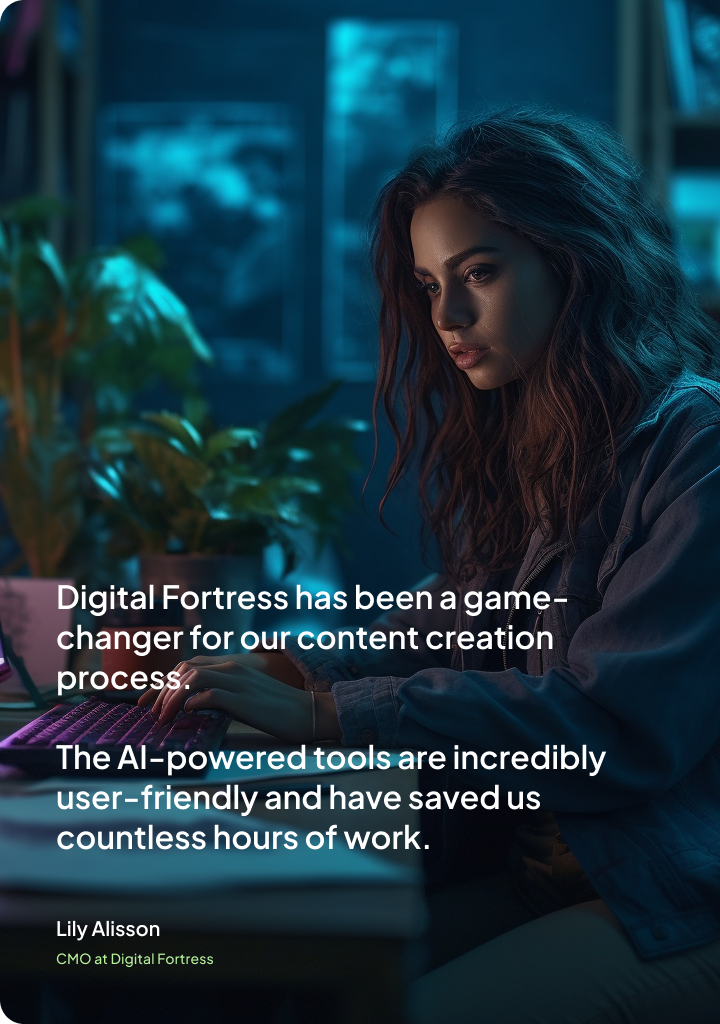
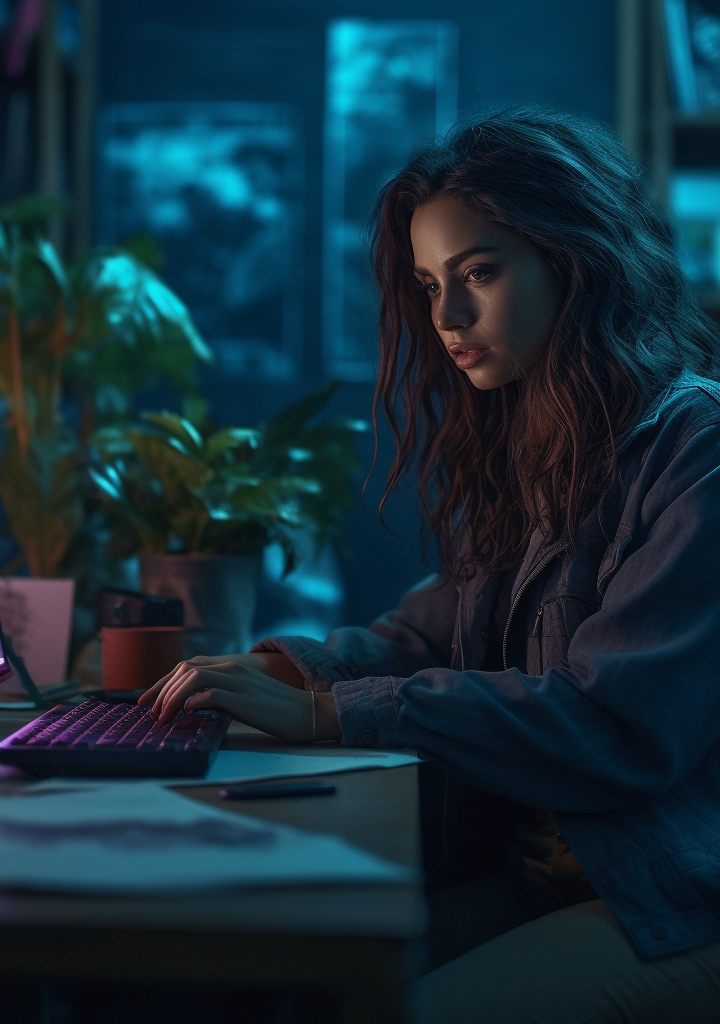
feat: ui table (#5)

diff --git a/src/pages/dashboard/components/table/index.tsx b/src/pages/dashboard/components/table/index.tsx
@@ -1,0 +1,59 @@
+import { Table, TableProps, Tag } from 'antd';
+import React from 'react';
+import { Edit, Remove } from '~/assets';
+import { ActionsStyled } from './styled';
+interface DataType {
+  key: number;
+  projectName: string;
+  lastAssessed: string;
+}
+
+const columns: TableProps<DataType>['columns'] = [
+  {
+    title: 'Project',
+    dataIndex: 'projectName',
+    key: 'projectName',
+  },
+  {
+    title: 'Last assessed',
+    dataIndex: 'lastAssessed',
+    key: 'lastAssessed',
+  },
+  {
+    title: 'License use',
+    dataIndex: 'licenseUse',
+    key: 'licenseUse',
+  },
+  {
+    key: 'actions',
+    dataIndex: 'actions',
+    width: '116px',
+  },
+];
+
+const data = Array.from({ length: 10 }, (_, index) => {
+  return {
+    key: index,
+    projectName: 'Sisyphus',
+    lastAssessed: '22 Jan 2022',
+    licenseUse: (
+      <>
+        <Tag color="success">active</Tag>
+        <Tag color="warning">Customer data</Tag>
+        <Tag color="error">Admin</Tag>
+      </>
+    ),
+    actions: (
+      <ActionsStyled>
+        <img src={Remove} alt="remove" />
+        <img src={Edit} alt="edit" />
+      </ActionsStyled>
+    ),
+  };
+});
+
+const TableDashBoard: React.FC = () => {
+  return <Table pagination={false} rowSelection={{ selectedRowKeys: [1] }} columns={columns} dataSource={data} />;
+};
+
+export default TableDashBoard;

diff --git a/src/pages/auth/signin/index.tsx b/src/pages/auth/signin/index.tsx
@@ -6,18 +6,18 @@ import FieldPassword from '~/components/form/password';
 import LinkPrimary from '~/components/link-primary';
 import {
   ButtonStyled,
+  CMOStyled,
   DescStyled,
   FormActionsStyled,
   FormGroupStyled,
   FormMainStyled,
-  ImgStyled,
   InfoStyled,
   LoginStyled,
   SignUpStyled,
+  SubTitleStyled,
   TitleHeadStyled,
   WrapperStyled,
 } from './styled';
-import { SignInBackground } from '~/assets';
 
 interface IFormData {
   email: string;
@@ -69,7 +69,11 @@ const SignIn = () => {
         </FormMainStyled>
       </LoginStyled>
       <InfoStyled>
-        <ImgStyled src={SignInBackground} alt="" />
+        <h2>Digital Fortress has been a game-changer for our content creation process.</h2>
+        <h2>The AI-powered tools are incredibly user-friendly and have saved us countless hours of work.</h2>
+
+        <SubTitleStyled>Lily Alisson</SubTitleStyled>
+        <CMOStyled>CMO at Digital Fortress</CMOStyled>
       </InfoStyled>
     </WrapperStyled>
   );

diff --git a/src/pages/auth/signin/styled.ts b/src/pages/auth/signin/styled.ts
@@ -1,4 +1,5 @@
 import styled from 'styled-components';
+import { SignInBackground } from '~/assets';
 import Button from '~/components/button/Button';
 
 export const WrapperStyled = styled.div`
@@ -8,7 +9,17 @@ export const WrapperStyled = styled.div`
 `;
 
 export const InfoStyled = styled.div`
-  background: #ccc;
+  background: url(${SignInBackground});
+  padding: 56px;
+  display: flex;
+  flex-direction: column;
+  justify-content: flex-end;
+
+  & > h2 {
+    font-size: 32px;
+    font-weight: 600;
+    margin-bottom: 56px;
+  }
 `;
 
 export const LoginStyled = styled.div`
@@ -65,4 +76,14 @@ export const FormGroupStyled = styled.div`
 export const ImgStyled = styled.img`
   width: 100%;
   height: 100vh;
+`;
+
+export const CMOStyled = styled.span`
+  color: ${({ theme }) => theme.primary};
+`;
+
+export const SubTitleStyled = styled.h3`
+  font-size: 20px;
+  font-weight: 600;
+  margin-bottom: 4px;
 `;

diff --git a/src/components/header/index.tsx b/src/components/header/index.tsx
@@ -1,6 +1,7 @@
 import { FormProvider, useForm } from 'react-hook-form';
+import { Avatar } from '~/assets';
 import FieldInput from '../form/input';
-import { HeaderRightStyled, HeaderSearchStyled, HeaderStyled } from './styled';
+import { AvatarStyled, HeaderRightStyled, HeaderSearchStyled, HeaderStyled } from './styled';
 
 interface IFormSearch {
   search: string;
@@ -26,7 +27,9 @@ const Header = () => {
         </FormProvider>
       </HeaderSearchStyled>
 
-      <HeaderRightStyled></HeaderRightStyled>
+      <HeaderRightStyled>
+        <AvatarStyled src={Avatar} />
+      </HeaderRightStyled>
     </HeaderStyled>
   );
 };

diff --git a/src/styles/globalStyled.ts b/src/styles/globalStyled.ts
@@ -59,6 +59,20 @@ const GlobalStyled = createGlobalStyle`
     height: 100%;
   }
   
+  .ant-table-container {
+    background-color: ${({ theme }) => theme.black};
+    color: ${({ theme }) => theme.textPrimary};
+  }
+
+  .ant-table-wrapper .ant-table-thead>tr>th {
+    padding: 10px;
+    background-color: ${({ theme }) => theme.black};
+    color: ${({ theme }) => theme.textPrimary};
+  }
+
+  .ant-table-cell {
+    padding: 12px !important;
+  }
 `;
 
 export default GlobalStyled;

diff --git a/src/components/form/input/styled.ts b/src/components/form/input/styled.ts
@@ -17,6 +17,10 @@ export const InputStyled = styled(Input)`
     border-color: ${({ theme }) => theme.primary};
     box-shadow: 0 0 0 4px rgba(132, 220, 245, 0.24);
   }
+
+  .ant-select-selection-placeholder {
+    color: ${({ theme }) => theme.textPrimary} !important;
+  }
 `;
 
 export const LabelStyled = styled.label`

diff --git a/src/assets/imgs/index.ts b/src/assets/imgs/index.ts
@@ -1,2 +1,5 @@
 export { default as SignInBackground } from './Illustration.png';
 export { default as Logo } from './logo.png';
+export { default as Remove } from './remove.png';
+export { default as Edit } from './edit.png';
+export { default as Avatar } from './cat.png';

diff --git a/src/pages/dashboard/index.tsx b/src/pages/dashboard/index.tsx
@@ -1,9 +1,11 @@
+import TableDashBoard from './components/table';
 import { TitleStyled } from './styled';
 
 const Dashboard = () => {
   return (
     <div>
       <TitleStyled>Dashboard</TitleStyled>
+      <TableDashBoard />
     </div>
   );
 };

diff --git a/src/components/header/styled.ts b/src/components/header/styled.ts
@@ -12,3 +12,7 @@ export const HeaderStyled = styled.header`
 export const HeaderSearchStyled = styled.div``;
 
 export const HeaderRightStyled = styled.div``;
+
+export const AvatarStyled = styled.img`
+  border-radius: 100rem;
+`;

diff --git a/src/pages/dashboard/components/table/styled.ts b/src/pages/dashboard/components/table/styled.ts
@@ -1,0 +1,8 @@
+import styled from 'styled-components';
+
+export const ActionsStyled = styled.div`
+  display: flex;
+  justify-content: space-between;
+  align-items: center;
+  gap: 10px;
+`;
